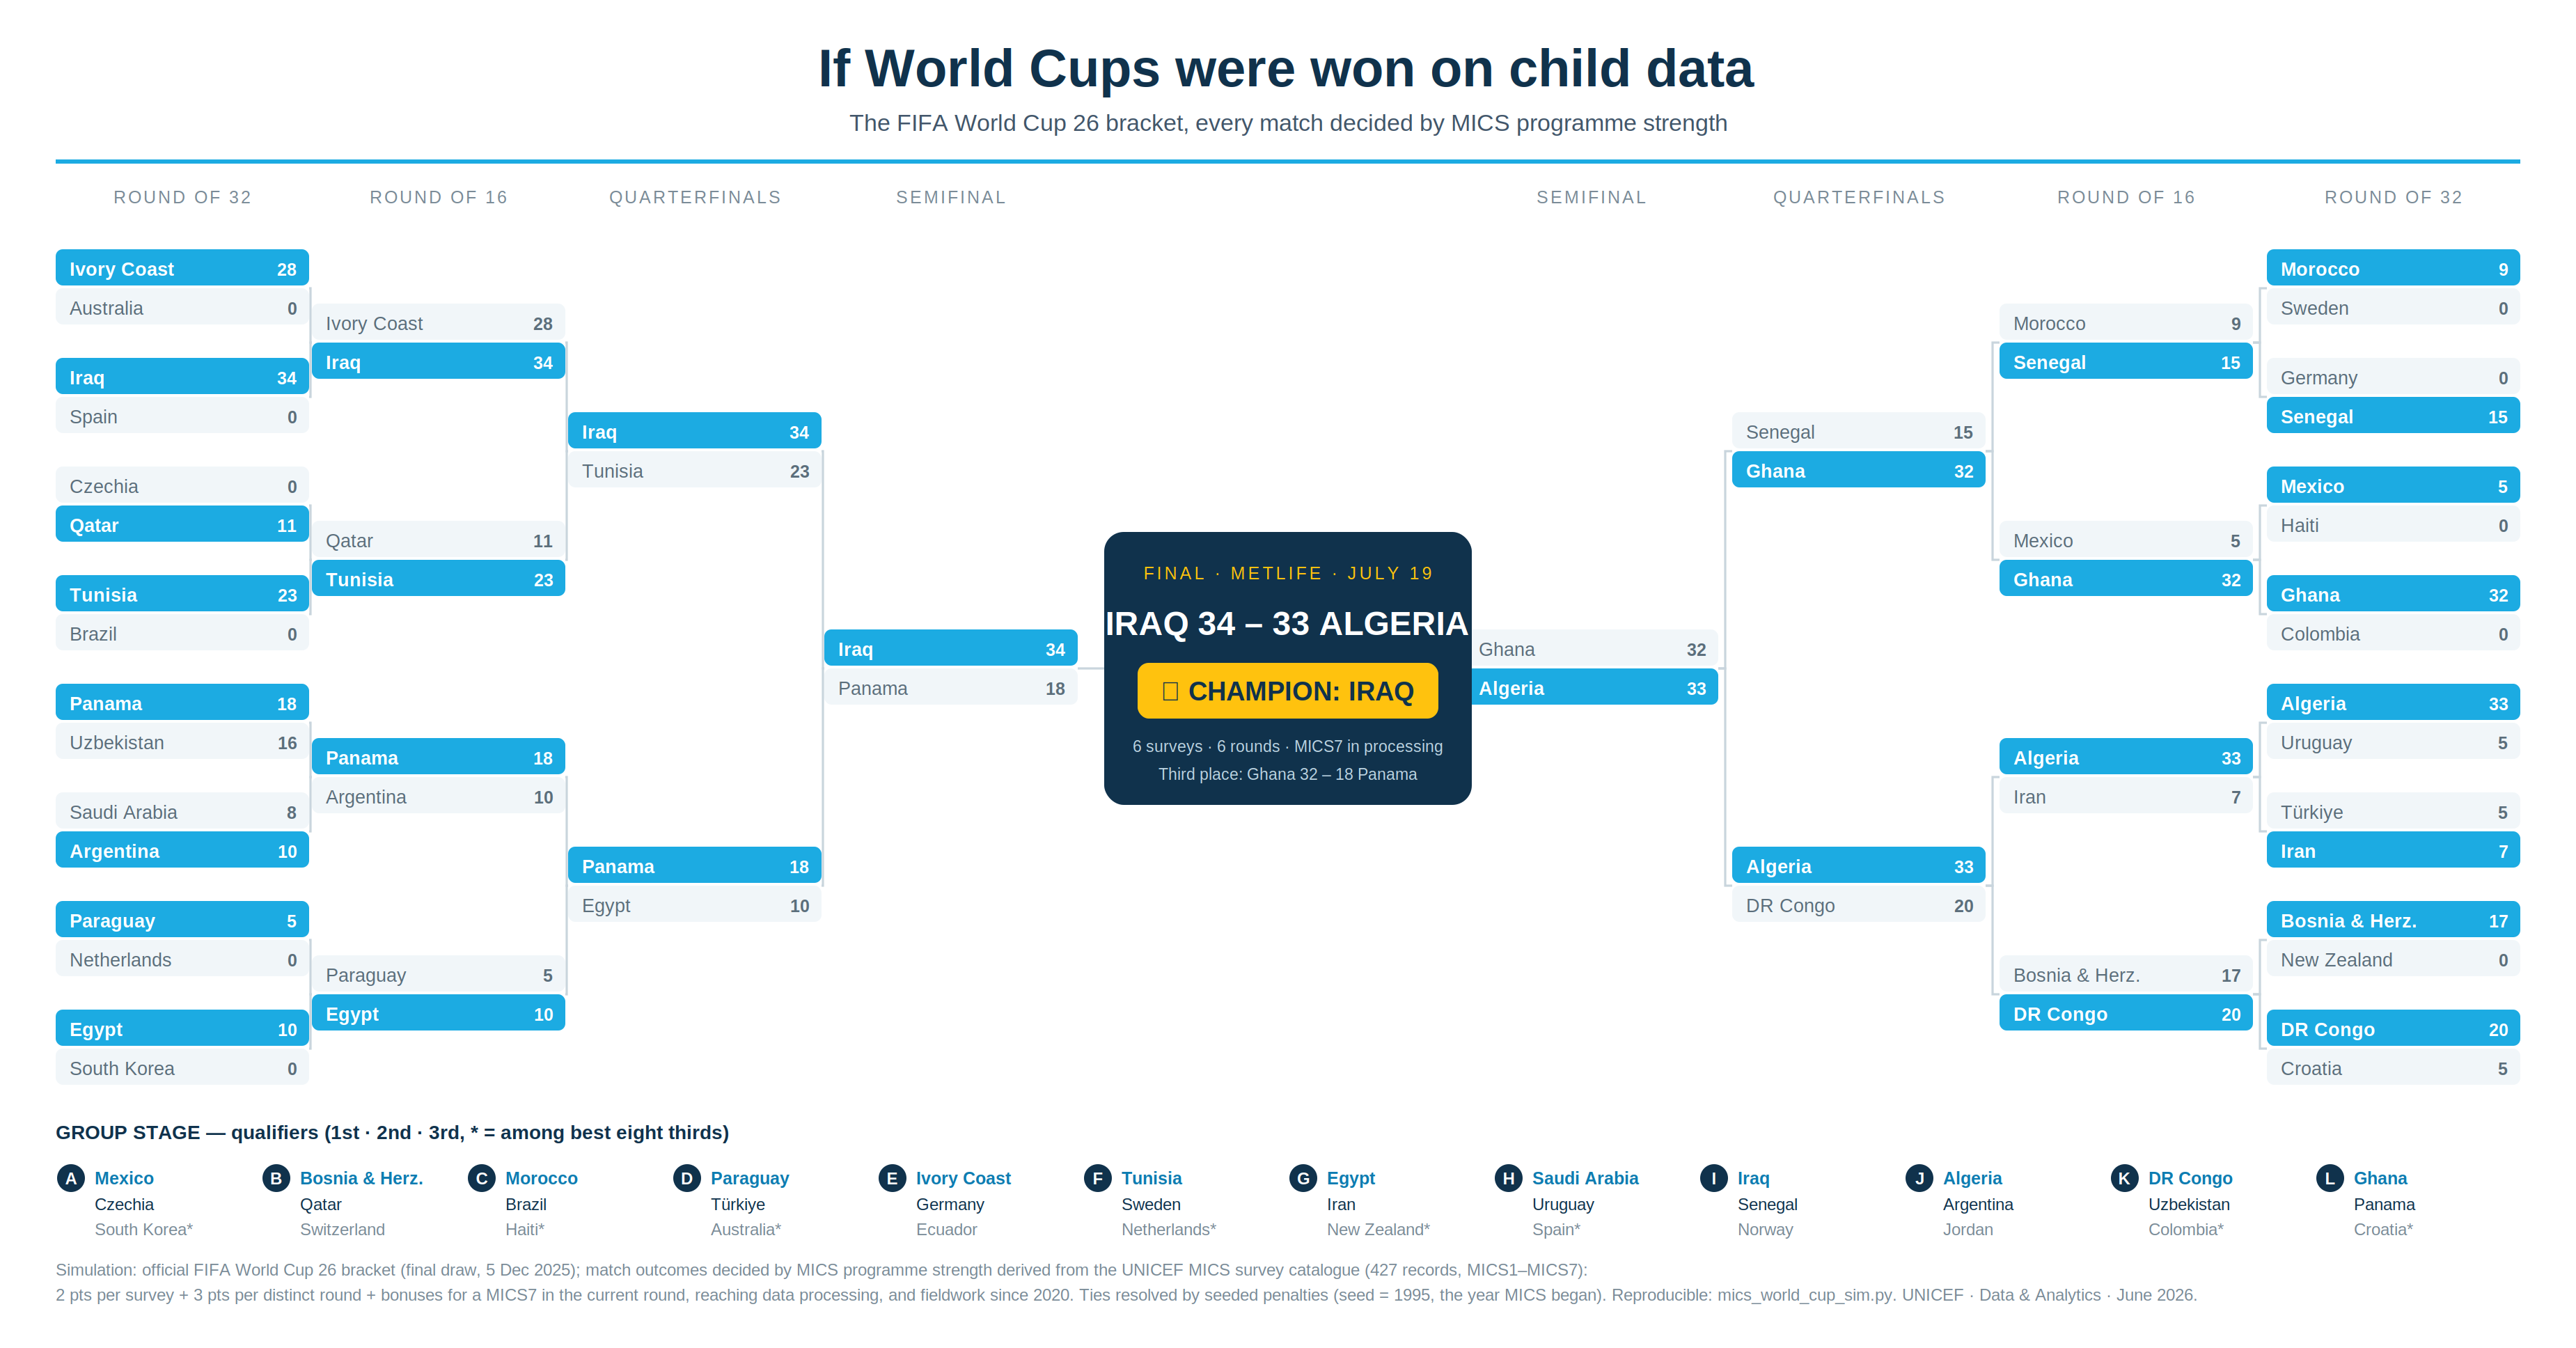
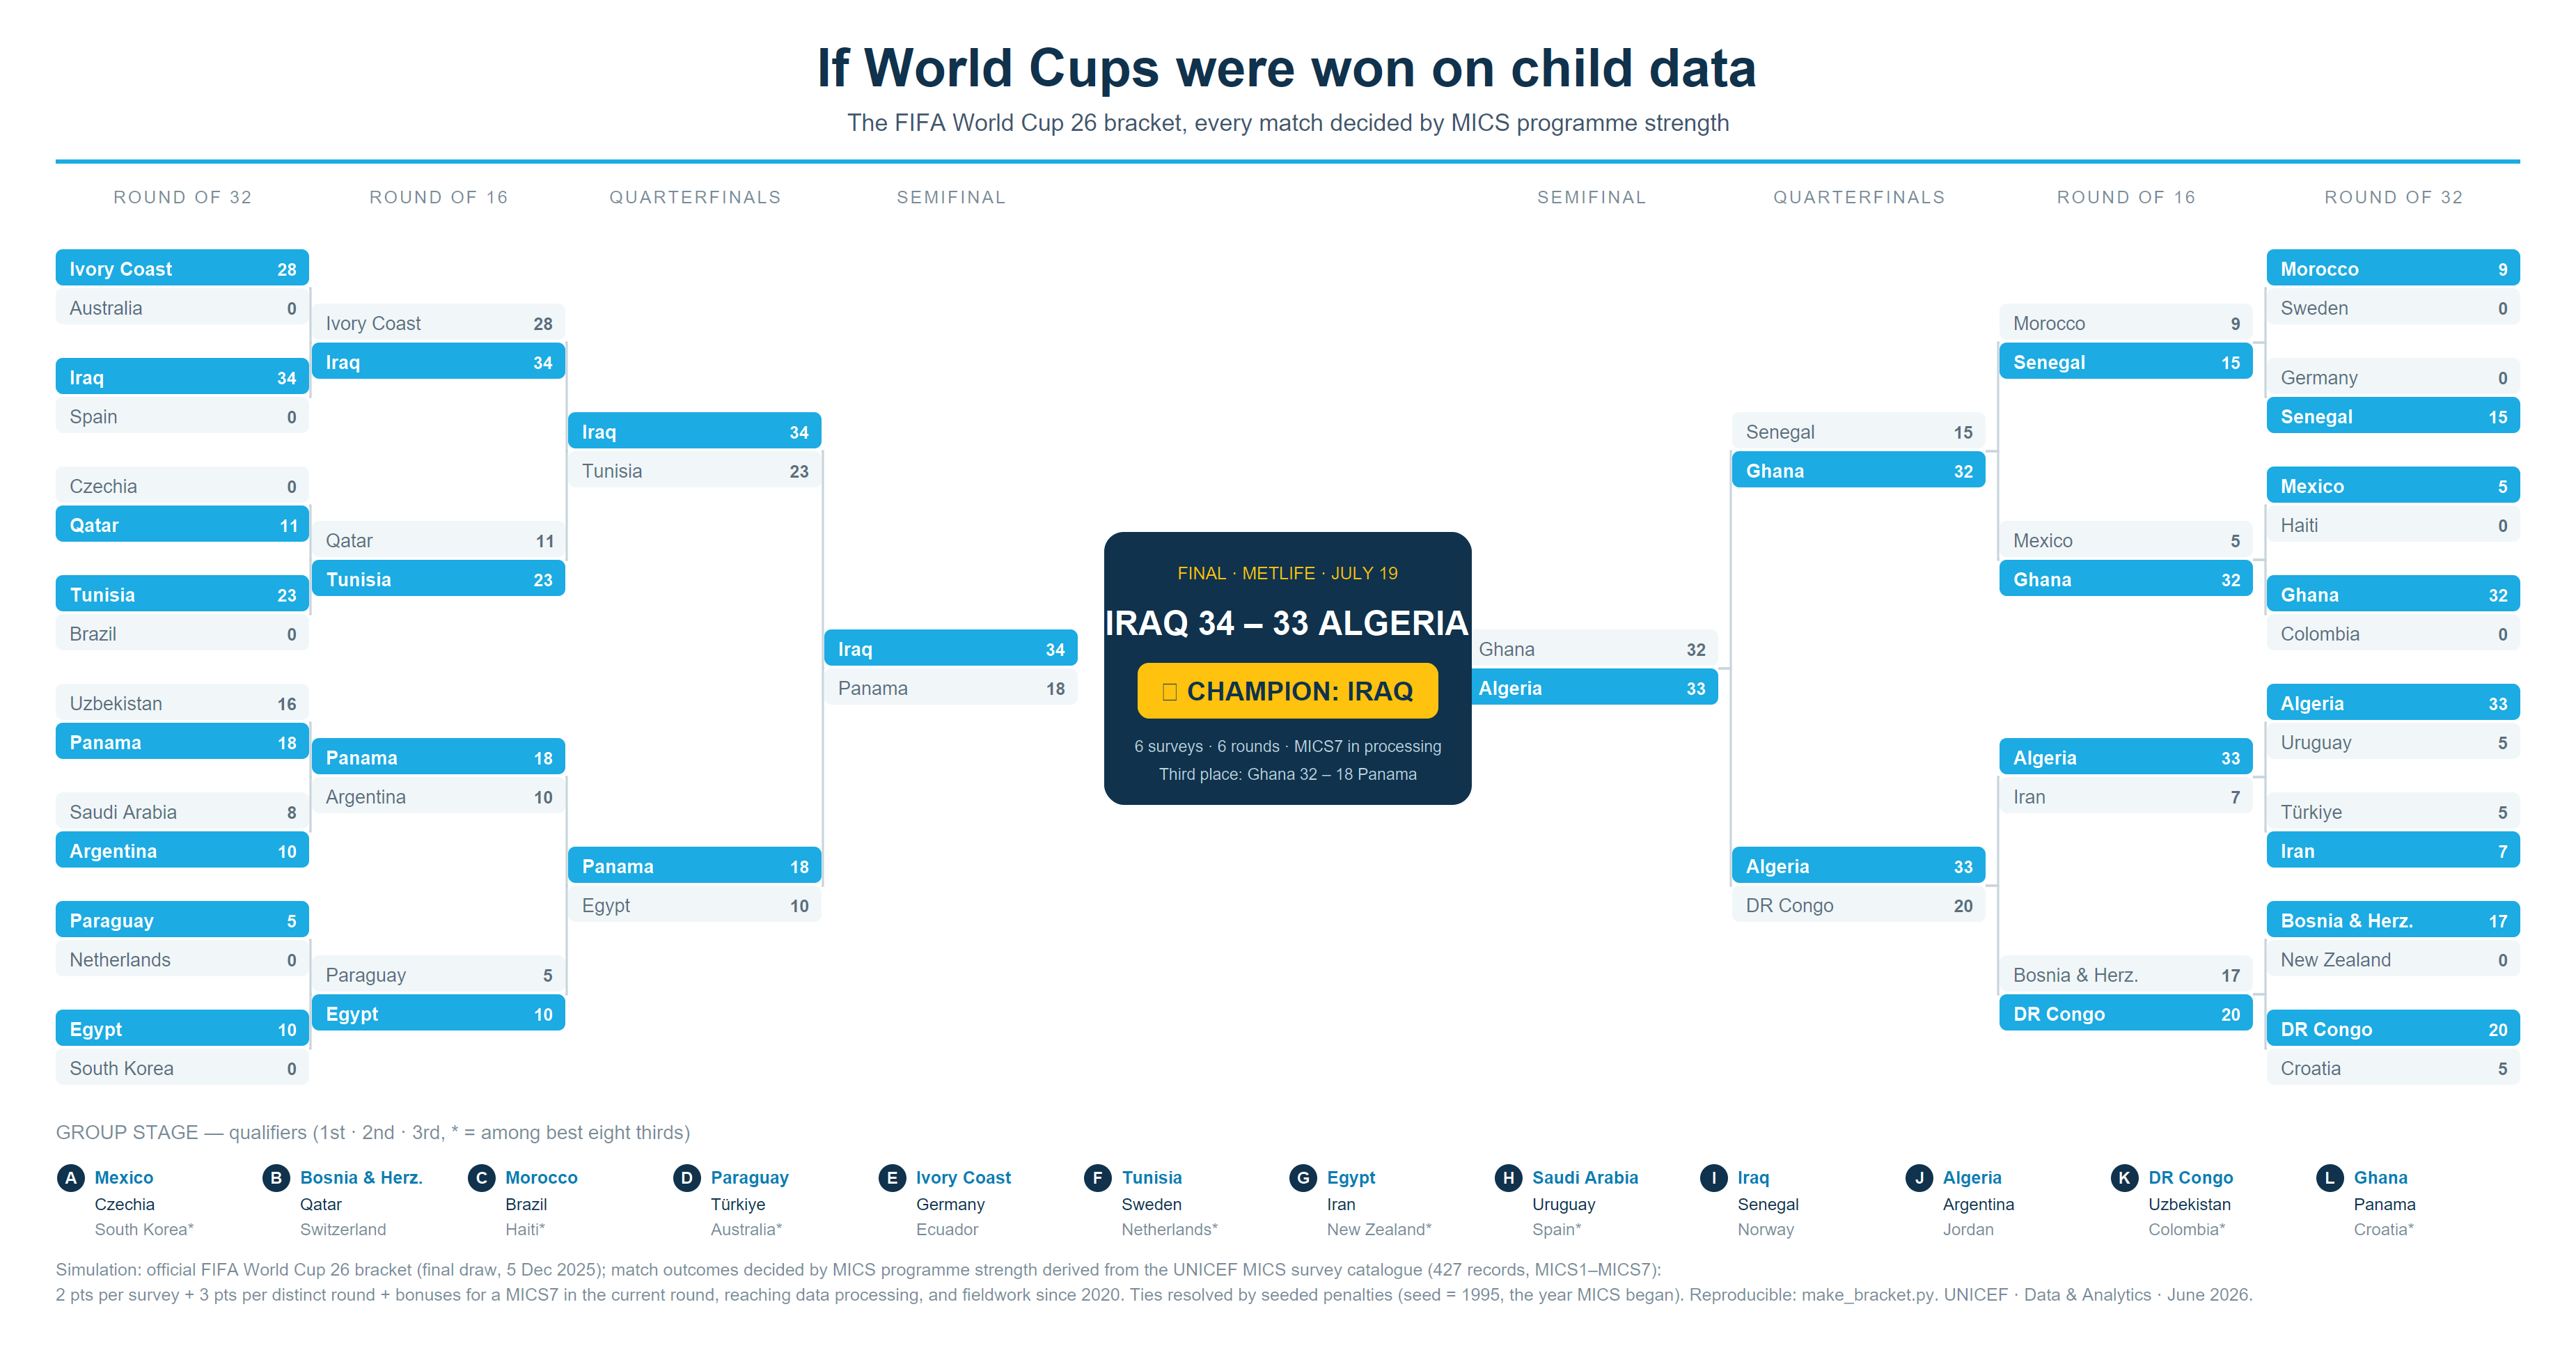
feat: reproducible figure generators (bracket + group board)
Add make_bracket.py and make_group_board.py (each runnable standalone), sharing _svgkit.py for SVG primitives + UNICEF palette. Both render from simulate() and rasterise a 2x PNG via cairosvg, replacing the previously hand-shipped static images. Regenerated bracket (98% identical to the prior render; footer now honestly cites make_bracket.py) and added the MICS-coverage group board. Output is deterministic and byte-stable across runs.

diff --git a/make_bracket.py b/make_bracket.py
@@ -1,0 +1,140 @@
+#!/usr/bin/env python3
+"""Render the MICS World Cup knockout bracket.
+
+Writes figures/mics_world_cup_bracket.svg and .png (rasterised at 2x).
+Tournament data comes from mics_world_cup_sim.simulate(); this script only
+lays it out. Run:  python make_bracket.py
+"""
+from pathlib import Path
+
+from mics_world_cup_sim import simulate, GROUPS, NAME
+from _svgkit import (NAVY, CYAN, YELLOW, WHITE, INK, MUTE, GREY, DEEP, MIST, CONNECT,
+                     disp, text, rect, circle, line, path, svg_doc, write_figure)
+
+HERE = Path(__file__).resolve().parent
+FIG = HERE / "figures"
+
+WIN_BG = CYAN; LOSE_BG = "#F1F6F9"; WIN_FG = WHITE; LOSE_FG = GREY
+BW = 182  # match-box width
+
+# round -> (top-y of first match, vertical pitch between matches)
+TOP = {"R32": (179, 78), "R16": (218, 156), "QF": (296, 312), "SF": (452, 0)}
+
+
+def _inorder_r32(qf_id, R16, QF):
+    """R32 match ids under one quarterfinal, in top-to-bottom (planar) order."""
+    a, b = QF[qf_id]
+    return [R16[a][0], R16[a][1], R16[b][0], R16[b][1]]
+
+
+def _champ_blurb(r):
+    champ = r["champ"]; cat = r["cat"]
+    rounds, n, _ = r["S"][champ][1]
+    m7 = cat[(cat["country"] == NAME.get(champ, champ)) & (cat["round"] == "MICS7")]
+    if (m7["status"] == "Data processing / analysis").any(): m7txt = "MICS7 in processing"
+    elif len(m7):                                            m7txt = "MICS7 fielded"
+    else:                                                    m7txt = "no MICS7 yet"
+    return f"{n} surveys · {rounds} rounds · {m7txt}"
+
+
+def build(r):
+    S = r["S"]; R32 = r["R32"]; R16 = r["R16"]; QF = r["QF"]
+    w = r["w"]; w16 = r["w16"]; wqf = r["wqf"]
+    el = []
+
+    # title
+    el.append(text(925, 62, "If World Cups were won on child data", 38, NAVY, bold=True, anchor="middle"))
+    el.append(text(925, 94, "The FIFA World Cup 26 bracket, every match decided by MICS programme strength", 17, INK, anchor="middle"))
+    el.append(line(40, 116, 1810, 116, CYAN, 3))
+
+    HEAD = ["ROUND OF 32", "ROUND OF 16", "QUARTERFINALS", "SEMIFINAL"]
+    for cx, lab in zip((131, 315, 499, 683), HEAD):   el.append(text(cx, 146, lab, 12.5, MUTE, anchor="middle", ls=1.5))
+    for cx, lab in zip((1719, 1527, 1335, 1143), HEAD): el.append(text(cx, 146, lab, 12.5, MUTE, anchor="middle", ls=1.5))
+
+    wings = {
+        "L": {"cols": {"R32": 40,   "R16": 224,  "QF": 408,  "SF": 592},
+              "r32": _inorder_r32(97, R16, QF) + _inorder_r32(98, R16, QF),
+              "qf": [97, 98], "r16": [89, 90, 93, 94],
+              "sf": (r["sf1"], (wqf[97], wqf[98]))},
+        "R": {"cols": {"R32": 1628, "R16": 1436, "QF": 1244, "SF": 1052},
+              "r32": _inorder_r32(99, R16, QF) + _inorder_r32(100, R16, QF),
+              "qf": [99, 100], "r16": [91, 92, 95, 96],
+              "sf": (r["sf2"], (wqf[99], wqf[100]))},
+    }
+
+    def box(col_x, top_y, team, winner):
+        won = team == winner
+        bg, fg = (WIN_BG, WIN_FG) if won else (LOSE_BG, LOSE_FG)
+        return [rect(col_x, top_y, BW, 26, bg, rx=5),
+                text(col_x + 10, top_y + 19, disp(team), 13.5, fg, bold=won),
+                text(col_x + 173, top_y + 19, f"{S[team][0]:.0f}", 12.5, fg, bold=True, anchor="end")]
+
+    def centers(round_key, n):
+        top0, pitch = TOP[round_key]
+        return [top0 + pitch * i + 28 for i in range(n)]
+
+    for wk, W in wings.items():
+        cols = W["cols"]
+        for i, m in enumerate(W["r32"]):
+            top = TOP["R32"][0] + TOP["R32"][1] * i; a, b = R32[m]
+            el += box(cols["R32"], top, a, w[m]); el += box(cols["R32"], top + 28, b, w[m])
+        for i, m in enumerate(W["r16"]):
+            top = TOP["R16"][0] + TOP["R16"][1] * i; ca, cb = R16[m]
+            el += box(cols["R16"], top, w[ca], w16[m]); el += box(cols["R16"], top + 28, w[cb], w16[m])
+        for i, m in enumerate(W["qf"]):
+            top = TOP["QF"][0] + TOP["QF"][1] * i; ca, cb = QF[m]
+            el += box(cols["QF"], top, w16[ca], wqf[m]); el += box(cols["QF"], top + 28, w16[cb], wqf[m])
+        sfwin, (a, b) = W["sf"]
+        el += box(cols["SF"], TOP["SF"][0], a, sfwin); el += box(cols["SF"], TOP["SF"][0] + 28, b, sfwin)
+
+        # faint elbow connectors: parent i is fed by children 2i and 2i+1
+        left = wk == "L"
+        for child_key, parent_key, n_parent in (("R32", "R16", 4), ("R16", "QF", 2), ("QF", "SF", 1)):
+            cc = centers(child_key, n_parent * 2); pc = centers(parent_key, n_parent)
+            cx = cols[child_key] + (BW if left else 0)
+            px = cols[parent_key] + (0 if left else BW)
+            mid = cx + (1 if left else -1)
+            for i in range(n_parent):
+                for ch in (cc[2 * i], cc[2 * i + 1]):
+                    el.append(path(f"M {cx} {ch} H {mid} V {pc[i]} H {px}", CONNECT, 1.6))
+
+    # final card
+    champ, ru, third = r["champ"], r["runner_up"], r["third"]
+    rec3 = next(x for x in r["records"] if x[0] == "3rd")
+    fourth = rec3[2] if rec3[3] == rec3[1] else rec3[1]
+    el.append(rect(793, 382, 264, 196, NAVY, rx=14))
+    el.append(rect(817, 476, 216, 40, YELLOW, rx=8))
+    el.append(text(925, 416, "FINAL · METLIFE · JULY 19", 12.5, YELLOW, anchor="middle"))
+    el.append(text(925, 456, f"{champ.upper()} {S[champ][0]:.0f} – {S[ru][0]:.0f} {ru.upper()}", 24, WIN_FG, bold=True, anchor="middle"))
+    el.append(text(925, 503, f"🏆 CHAMPION: {champ.upper()}", 19, NAVY, bold=True, anchor="middle"))
+    el.append(text(925, 540, _champ_blurb(r), 11.5, MIST, anchor="middle"))
+    el.append(text(925, 560, f"Third place: {disp(third)} {S[third][0]:.0f} – {S[fourth][0]:.0f} {disp(fourth)}", 11.5, MIST, anchor="middle"))
+
+    # group-stage legend
+    el.append(text(40, 818, "GROUP STAGE — qualifiers (1st · 2nd · 3rd, * = among best eight thirds)", 14, MUTE))
+    best8 = set(r["best8"])
+    for i, g in enumerate(GROUPS):
+        cx = 51 + 147.5 * i; st = r["standings"][g]
+        el.append(circle(cx, 846, 10, NAVY))
+        el.append(text(cx, 850, g, 12, WIN_FG, bold=True, anchor="middle"))
+        el.append(text(cx + 17, 850, disp(st[0]), 12.5, DEEP, bold=True))
+        el.append(text(cx + 17, 869, disp(st[1]), 12, NAVY))
+        el.append(text(cx + 17, 887, disp(st[2]) + ("*" if g in best8 else ""), 12, MUTE))
+
+    # footer — reproducibility claim corrected to this script
+    el.append(text(40, 916,
+        "Simulation: official FIFA World Cup 26 bracket (final draw, 5 Dec 2025); match outcomes decided by MICS programme strength derived from the UNICEF MICS survey catalogue (427 records, MICS1–MICS7):",
+        12.5, MUTE))
+    el.append(text(40, 934,
+        "2 pts per survey + 3 pts per distinct round + bonuses for a MICS7 in the current round, reaching data processing, and fieldwork since 2020. Ties resolved by seeded penalties (seed = 1995, the year MICS began). Reproducible: make_bracket.py. UNICEF · Data & Analytics · June 2026.",
+        12.5, MUTE))
+
+    return svg_doc(1850, 968, el)
+
+
+def main():
+    write_figure(FIG, "mics_world_cup_bracket", build(simulate()))
+
+
+if __name__ == "__main__":
+    main()

diff --git a/make_group_board.py b/make_group_board.py
@@ -1,0 +1,102 @@
+#!/usr/bin/env python3
+"""Render the MICS coverage group board ("The other league table").
+
+Writes figures/wc26_mics_group_board.svg and .png (rasterised at 2x).
+Tournament/coverage data comes from mics_world_cup_sim.simulate(); this script
+only lays it out. Run:  python make_group_board.py
+"""
+from pathlib import Path
+
+from mics_world_cup_sim import simulate, GROUPS, NAME
+from _svgkit import (NAVY, CYAN, YELLOW, WHITE, INK, MUTE, GREY,
+                     disp, text, rect, circle, line, svg_doc, write_figure)
+
+HERE = Path(__file__).resolve().parent
+FIG = HERE / "figures"
+
+# survey-count -> tile fill (0, 1-2, 3-4, 5-6, 7)
+TILE = ["#EEF3F6", "#C8E9F8", "#7FCBEE", "#2FA8DC", "#0E7CB1"]
+TILE0_FG = "#6B7C88"
+
+
+def _coverage(r):
+    """Per-nation (survey count, has-MICS7) over the 48 World Cup nations."""
+    cat = r["cat"]; S = r["S"]; out = {}
+    for g in GROUPS:
+        for t in GROUPS[g]:
+            key = NAME.get(t, t)
+            n = int(S[t][1][1])
+            has_m7 = len(cat[(cat["country"] == key) & (cat["round"] == "MICS7")]) > 0
+            out[t] = (n, has_m7)
+    return out
+
+
+def _bucket(n):
+    if n <= 0: return TILE[0], TILE0_FG
+    if n <= 2: return TILE[1], NAVY
+    if n <= 4: return TILE[2], NAVY
+    if n <= 6: return TILE[3], WHITE
+    return TILE[4], WHITE
+
+
+def build(r):
+    cov = _coverage(r)
+    el = []
+    el.append(text(56, 86, "The other league table", 40, NAVY, bold=True))
+    el.append(text(56, 122, "MICS coverage across the 48 nations at the FIFA World Cup 26", 19, INK))
+    el.append(line(56, 146, 1144, 146, CYAN, 3))
+
+    n_part = sum(1 for v in cov.values() if v[0] >= 1)
+    n_surv = sum(v[0] for v in cov.values())
+    n_m7 = sum(1 for v in cov.values() if v[1])
+    el.append(text(56, 192, str(n_part), 36, CYAN, bold=True))
+    el.append(text(130, 192, "of 48 nations participate in MICS", 16, NAVY))
+    el.append(text(480, 192, str(n_surv), 36, CYAN, bold=True))
+    el.append(text(554, 192, "MICS surveys since 1995", 16, NAVY))
+    el.append(text(811, 192, str(n_m7), 36, CYAN, bold=True))
+    el.append(text(863, 192, "with a MICS7 in the current round", 16, NAVY))
+
+    col_x = [66, 343.5, 621, 898.5]
+    dot_cy = [248, 488, 728]
+    TW = 235.5
+    for i, g in enumerate(GROUPS):
+        cl = col_x[i % 4]; cy = dot_cy[i // 4]; dot_cx = cl + 88
+        el.append(text(cl + 4, cy + 6, "GROUP", 14, MUTE))
+        el.append(circle(dot_cx, cy, 14, NAVY))
+        el.append(text(dot_cx, cy + 6, g, 16, WHITE, bold=True, anchor="middle"))
+        for k, t in enumerate(GROUPS[g]):
+            ty = cy + 18 + 42 * k
+            n, has_m7 = cov[t]
+            fill, fg = _bucket(n)
+            el.append(rect(cl, ty, TW, 35, fill, rx=7))
+            el.append(text(cl + 12, ty + 24, disp(t), 15.5, fg))
+            if n > 0:
+                el.append(text(cl + TW - 14, ty + 24, str(n), 15.5, fg, anchor="end"))
+            if has_m7:
+                el.append(circle(cl + TW - 34, ty + 17.5, 5, YELLOW))
+
+    # legend strip
+    el.append(text(56, 966, "MICS surveys per nation, 1995–2026", 15, GREY))
+    for j, sx in enumerate((346, 436, 526, 616, 706)):
+        el.append(rect(sx, 951, 34, 20, TILE[j], rx=5))
+    for sx, lab in zip((388, 478, 568, 658, 748), ("0", "1–2", "3–4", "5–6", "7")):
+        el.append(text(sx, 966, lab, 14, GREY))
+    el.append(circle(802, 960, 5.5, YELLOW))
+    el.append(text(814, 966, "MICS7 in the current round", 14, GREY))
+
+    el.append(text(56, 1004,
+        "Source: UNICEF MICS survey catalogue (427 records, MICS1–MICS7) joined to the FIFA World Cup 26 final field. Numbers in tiles are catalogue survey records per nation,",
+        12.5, MUTE))
+    el.append(text(56, 1022,
+        "including subnational and special-population surveys. Amber dot: a MICS7 in the current round (incl. one on hold). UNICEF · Data & Analytics · June 2026.",
+        12.5, MUTE))
+
+    return svg_doc(1200, 1124, el)
+
+
+def main():
+    write_figure(FIG, "wc26_mics_group_board", build(simulate()))
+
+
+if __name__ == "__main__":
+    main()

diff --git a/_svgkit.py b/_svgkit.py
@@ -1,0 +1,57 @@
+"""Shared SVG primitives + UNICEF palette for the MICS World Cup figures.
+
+Imported by make_bracket.py and make_group_board.py so neither duplicates the
+drawing helpers. No tournament logic lives here — data comes from
+mics_world_cup_sim.simulate().
+"""
+import html
+from pathlib import Path
+
+import cairosvg
+
+FONT = "Liberation Sans"
+
+# UNICEF brand palette
+NAVY = "#10324C"; CYAN = "#1CABE2"; YELLOW = "#FFC20E"; WHITE = "#FFFFFF"
+INK  = "#42566A"; MUTE = "#7A8B97"; GREY = "#5B6E7B"; DEEP = "#0E7CB1"; MIST = "#BCD4E2"
+CONNECT = "#C9D5DD"
+
+# figure labels differ from sim keys only for the one over-long name
+DISPLAY = {"Bosnia and Herzegovina": "Bosnia & Herz."}
+def disp(t): return DISPLAY.get(t, t)
+
+
+def esc(s): return html.escape(str(s), quote=False)
+
+def text(x, y, s, size, fill, *, bold=False, anchor="start", ls=None):
+    a = f'font-family="{FONT}" font-size="{size}"'
+    if bold:              a += ' font-weight="bold"'
+    if anchor != "start": a += f' text-anchor="{anchor}"'
+    if ls:                a += f' letter-spacing="{ls}"'
+    return f'<text x="{x}" y="{y}" {a} fill="{fill}">{esc(s)}</text>'
+
+def rect(x, y, w, h, fill, rx=None):
+    r = f' rx="{rx}"' if rx is not None else ""
+    return f'<rect x="{x}" y="{y}" width="{w}" height="{h}"{r} fill="{fill}"/>'
+
+def circle(cx, cy, r, fill):
+    return f'<circle cx="{cx}" cy="{cy}" r="{r}" fill="{fill}"/>'
+
+def line(x1, y1, x2, y2, stroke, sw):
+    return f'<line x1="{x1}" y1="{y1}" x2="{x2}" y2="{y2}" stroke="{stroke}" stroke-width="{sw}"/>'
+
+def path(d, stroke, sw):
+    return f'<path d="{d}" fill="none" stroke="{stroke}" stroke-width="{sw}"/>'
+
+def svg_doc(w, h, body):
+    return (f'<svg xmlns="http://www.w3.org/2000/svg" width="{w}" height="{h}" '
+            f'viewBox="0 0 {w} {h}">{rect(0,0,w,h,WHITE)}{"".join(body)}</svg>')
+
+
+def write_figure(out_dir, stem, svg, scale=2.0):
+    """Write <stem>.svg and a 2x-rasterised <stem>.png into out_dir."""
+    out_dir = Path(out_dir); out_dir.mkdir(exist_ok=True)
+    (out_dir / f"{stem}.svg").write_text(svg, encoding="utf-8")
+    cairosvg.svg2png(bytestring=svg.encode("utf-8"),
+                     write_to=str(out_dir / f"{stem}.png"), scale=scale)
+    print(f"wrote figures/{stem}.svg + figures/{stem}.png")

diff --git a/README.md b/README.md
@@ -39,7 +39,24 @@ python mics_world_cup_sim.py
 
 The script reads the bundled catalogue, prints every group table and knockout result,
 and names the champion. It is deterministic (fixed seed), so the bracket is fully
-reproducible. The figures in `figures/` are pre-rendered versions of the same bracket.
+reproducible.
+
+## Reproduce the figures
+
+Both figures are generated from the same deterministic simulation — nothing is
+hand-drawn. `mics_world_cup_sim.simulate()` is the single source of truth; the two
+render scripts only lay it out, write the `.svg`, and rasterise a 2× `.png` via
+cairosvg:
+
+```bash
+python make_bracket.py        # -> figures/mics_world_cup_bracket.{svg,png}
+python make_group_board.py    # -> figures/wc26_mics_group_board.{svg,png}
+```
+
+The companion **group board** shows the underlying MICS coverage — survey records per
+nation, and which countries have a MICS7 in the current round:
+
+![MICS coverage group board](figures/wc26_mics_group_board.png)
 
 ## Caveats
 
@@ -55,10 +72,14 @@ catalogue is refreshed.
 
 ```
 mics-world-cup/
-  mics_world_cup_sim.py              the simulation (prints the full bracket)
+  mics_world_cup_sim.py              the simulation — simulate() + prints the bracket
+  make_bracket.py                    renders the knockout bracket figure
+  make_group_board.py                renders the MICS-coverage group board figure
+  _svgkit.py                         shared SVG primitives + UNICEF palette
   data/mics_surveys_catalogue.csv    427 MICS survey records (strength source)
-  figures/mics_world_cup_bracket.*   pre-rendered bracket (PNG + SVG)
-  requirements.txt                   pandas · numpy
+  figures/mics_world_cup_bracket.*   knockout bracket (PNG + SVG)
+  figures/wc26_mics_group_board.*    MICS-coverage group board (PNG + SVG)
+  requirements.txt                   numpy · pandas · cairosvg
 ```
 
 > Not affiliated with or endorsed by FIFA. "World Cup" is used here as a metaphor.